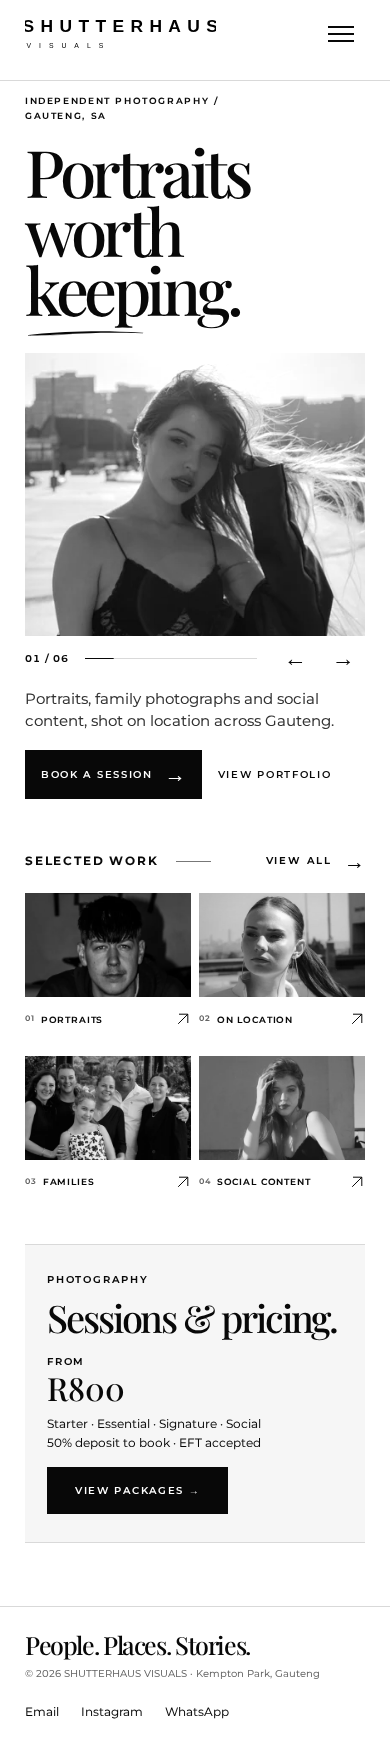
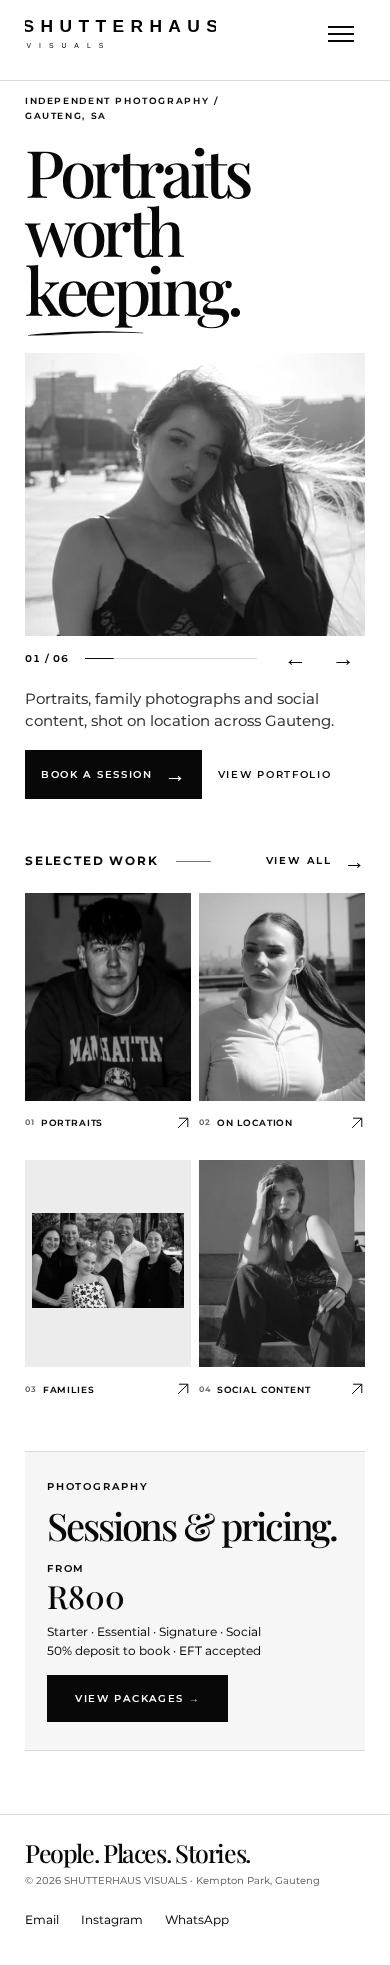
Present Selected Work in 4:5 portrait frames on Home and Portfolio

diff --git a/index.html b/index.html
@@ -201,8 +201,8 @@
       <div class="hstrip__grid" style="--showcase-cols:4"><div class="hstrip__entry">
       <button type="button" class="photo-trigger hstrip__item" data-cover="portraits" style="--focal:50% 2.5%" role="button" aria-label="Enlarge A seated man in a Manhattan sweatshirt looks into the camera, hands clasped">
         <span class="cell">
-      <picture><source type="image/webp" srcset="gallery/5-img-0086-400w.webp 400w, gallery/5-img-0086-560w.webp 560w, gallery/5-img-0086-800w.webp 800w, gallery/5-img-0086-1200w.webp 1200w, gallery/5-img-0086-1600w.webp 1600w" sizes="(max-width: 759px) 46vw, 24vw" />
-        <source type="image/jpeg" srcset="gallery/5-img-0086-400w.jpg 400w, gallery/5-img-0086-560w.jpg 560w, gallery/5-img-0086-800w.jpg 800w, gallery/5-img-0086-1200w.jpg 1200w, gallery/5-img-0086-1600w.jpg 1600w" sizes="(max-width: 759px) 46vw, 24vw" />
+      <picture><source type="image/webp" srcset="gallery/5-img-0086-400w.webp 400w, gallery/5-img-0086-560w.webp 560w, gallery/5-img-0086-800w.webp 800w, gallery/5-img-0086-1200w.webp 1200w, gallery/5-img-0086-1600w.webp 1600w" sizes="(max-width: 759px) 46vw, (max-width: 1536px) 24vw, 350px" />
+        <source type="image/jpeg" srcset="gallery/5-img-0086-400w.jpg 400w, gallery/5-img-0086-560w.jpg 560w, gallery/5-img-0086-800w.jpg 800w, gallery/5-img-0086-1200w.jpg 1200w, gallery/5-img-0086-1600w.jpg 1600w" sizes="(max-width: 759px) 46vw, (max-width: 1536px) 24vw, 350px" />
         <img src="gallery/5-img-0086-400w.jpg" alt="A seated man in a Manhattan sweatshirt looks into the camera, hands clasped"
              loading="lazy" decoding="async" style="aspect-ratio:1600/2400"
              data-full="gallery/5-img-0086.jpg" data-alt="A seated man in a Manhattan sweatshirt looks into the camera, hands clasped"
@@ -212,10 +212,10 @@
     </span></button>
       <a class="work-caption" href="./portfolio.html?collection=portraits#edit-portraits"><small aria-hidden="true">01</small>Portraits<svg width="16" height="16" viewBox="0 0 20 20" fill="none" aria-hidden="true"><path d="M4 16 16 4M5 4h11v11" stroke="currentColor" stroke-width="1.25"/></svg></a>
     </div><div class="hstrip__entry">
-      <button type="button" class="photo-trigger hstrip__item" data-cover="on-location" style="--focal:50% 29%" role="button" aria-label="Enlarge Portrait of a woman in a white top outdoors, hair pulled back, in bright light">
+      <button type="button" class="photo-trigger hstrip__item" data-cover="on-location" style="--focal:50% 64%" role="button" aria-label="Enlarge Portrait of a woman in a white top outdoors, hair pulled back, in bright light">
         <span class="cell">
-      <picture><source type="image/webp" srcset="gallery/2-20240718114526-img-0124-400w.webp 400w, gallery/2-20240718114526-img-0124-560w.webp 560w, gallery/2-20240718114526-img-0124-800w.webp 800w, gallery/2-20240718114526-img-0124-1200w.webp 1200w, gallery/2-20240718114526-img-0124-1600w.webp 1600w" sizes="(max-width: 759px) 46vw, 24vw" />
-        <source type="image/jpeg" srcset="gallery/2-20240718114526-img-0124-400w.jpg 400w, gallery/2-20240718114526-img-0124-560w.jpg 560w, gallery/2-20240718114526-img-0124-800w.jpg 800w, gallery/2-20240718114526-img-0124-1200w.jpg 1200w, gallery/2-20240718114526-img-0124-1600w.jpg 1600w" sizes="(max-width: 759px) 46vw, 24vw" />
+      <picture><source type="image/webp" srcset="gallery/2-20240718114526-img-0124-400w.webp 400w, gallery/2-20240718114526-img-0124-560w.webp 560w, gallery/2-20240718114526-img-0124-800w.webp 800w, gallery/2-20240718114526-img-0124-1200w.webp 1200w, gallery/2-20240718114526-img-0124-1600w.webp 1600w" sizes="(max-width: 759px) 46vw, (max-width: 1536px) 24vw, 350px" />
+        <source type="image/jpeg" srcset="gallery/2-20240718114526-img-0124-400w.jpg 400w, gallery/2-20240718114526-img-0124-560w.jpg 560w, gallery/2-20240718114526-img-0124-800w.jpg 800w, gallery/2-20240718114526-img-0124-1200w.jpg 1200w, gallery/2-20240718114526-img-0124-1600w.jpg 1600w" sizes="(max-width: 759px) 46vw, (max-width: 1536px) 24vw, 350px" />
         <img src="gallery/2-20240718114526-img-0124-400w.jpg" alt="Portrait of a woman in a white top outdoors, hair pulled back, in bright light"
              loading="lazy" decoding="async" style="aspect-ratio:1600/2400"
              data-full="gallery/2-20240718114526-img-0124.jpg" data-alt="Portrait of a woman in a white top outdoors, hair pulled back, in bright light"
@@ -225,10 +225,10 @@
     </span></button>
       <a class="work-caption" href="./portfolio.html?collection=on-location#edit-on-location"><small aria-hidden="true">02</small>On location<svg width="16" height="16" viewBox="0 0 20 20" fill="none" aria-hidden="true"><path d="M4 16 16 4M5 4h11v11" stroke="currentColor" stroke-width="1.25"/></svg></a>
     </div><div class="hstrip__entry">
-      <button type="button" class="photo-trigger hstrip__item" data-cover="families" style="--focal:50% 0%" role="button" aria-label="Enlarge Family portrait of six people outdoors, laughing together on a path">
+      <button type="button" class="photo-trigger hstrip__item" data-cover="families" style="--focal:50% 0%" data-mounted role="button" aria-label="Enlarge Family portrait of six people outdoors, laughing together on a path">
         <span class="cell">
-      <picture><source type="image/webp" srcset="gallery/54-img-0164-400w.webp 400w, gallery/54-img-0164-560w.webp 560w, gallery/54-img-0164-800w.webp 800w, gallery/54-img-0164-1200w.webp 1200w, gallery/54-img-0164-1600w.webp 1600w" sizes="(max-width: 759px) 46vw, 24vw" />
-        <source type="image/jpeg" srcset="gallery/54-img-0164-400w.jpg 400w, gallery/54-img-0164-560w.jpg 560w, gallery/54-img-0164-800w.jpg 800w, gallery/54-img-0164-1200w.jpg 1200w, gallery/54-img-0164-1600w.jpg 1600w" sizes="(max-width: 759px) 46vw, 24vw" />
+      <picture><source type="image/webp" srcset="gallery/54-img-0164-400w.webp 400w, gallery/54-img-0164-560w.webp 560w, gallery/54-img-0164-800w.webp 800w, gallery/54-img-0164-1200w.webp 1200w, gallery/54-img-0164-1600w.webp 1600w" sizes="(max-width: 759px) 46vw, (max-width: 1536px) 24vw, 350px" />
+        <source type="image/jpeg" srcset="gallery/54-img-0164-400w.jpg 400w, gallery/54-img-0164-560w.jpg 560w, gallery/54-img-0164-800w.jpg 800w, gallery/54-img-0164-1200w.jpg 1200w, gallery/54-img-0164-1600w.jpg 1600w" sizes="(max-width: 759px) 46vw, (max-width: 1536px) 24vw, 350px" />
         <img src="gallery/54-img-0164-400w.jpg" alt="Family portrait of six people outdoors, laughing together on a path"
              loading="lazy" decoding="async" style="aspect-ratio:2400/1499"
              data-full="gallery/54-img-0164.jpg" data-alt="Family portrait of six people outdoors, laughing together on a path"
@@ -240,8 +240,8 @@
     </div><div class="hstrip__entry">
       <button type="button" class="photo-trigger hstrip__item" data-cover="social" style="--focal:50% 0%" role="button" aria-label="Enlarge A woman in black seated on sunlit outdoor steps with her hand in her hair">
         <span class="cell">
-      <picture><source type="image/webp" srcset="gallery/20-img-0202-400w.webp 400w, gallery/20-img-0202-560w.webp 560w, gallery/20-img-0202-800w.webp 800w, gallery/20-img-0202-1200w.webp 1200w" sizes="(max-width: 759px) 46vw, 24vw" />
-        <source type="image/jpeg" srcset="gallery/20-img-0202-400w.jpg 400w, gallery/20-img-0202-560w.jpg 560w, gallery/20-img-0202-800w.jpg 800w, gallery/20-img-0202-1200w.jpg 1200w" sizes="(max-width: 759px) 46vw, 24vw" />
+      <picture><source type="image/webp" srcset="gallery/20-img-0202-400w.webp 400w, gallery/20-img-0202-560w.webp 560w, gallery/20-img-0202-800w.webp 800w, gallery/20-img-0202-1200w.webp 1200w" sizes="(max-width: 759px) 46vw, (max-width: 1536px) 24vw, 350px" />
+        <source type="image/jpeg" srcset="gallery/20-img-0202-400w.jpg 400w, gallery/20-img-0202-560w.jpg 560w, gallery/20-img-0202-800w.jpg 800w, gallery/20-img-0202-1200w.jpg 1200w" sizes="(max-width: 759px) 46vw, (max-width: 1536px) 24vw, 350px" />
         <img src="gallery/20-img-0202-400w.jpg" alt="A woman in black seated on sunlit outdoor steps with her hand in her hair"
              loading="lazy" decoding="async" style="aspect-ratio:1350/2400"
              data-full="gallery/20-img-0202.jpg" data-alt="A woman in black seated on sunlit outdoor steps with her hand in her hair"

diff --git a/portfolio.html b/portfolio.html
@@ -194,17 +194,17 @@
       <p class="phead__p">Portraits, families and creative work, photographed on location across Gauteng.</p>
     </header>
     <nav class="work-index" aria-label="Browse work by collection"><a class="work-tile" data-collection="portraits" href="./portfolio.html?collection=portraits#edit-portraits" style="--focal:50% 2.5%">
-      <figure class="work-tile__photo"><picture><source type="image/webp" srcset="gallery/5-img-0086-400w.webp 400w, gallery/5-img-0086-560w.webp 560w, gallery/5-img-0086-800w.webp 800w, gallery/5-img-0086-1200w.webp 1200w, gallery/5-img-0086-1600w.webp 1600w" sizes="(max-width: 759px) 92vw, 24vw" />
-        <source type="image/jpeg" srcset="gallery/5-img-0086-400w.jpg 400w, gallery/5-img-0086-560w.jpg 560w, gallery/5-img-0086-800w.jpg 800w, gallery/5-img-0086-1200w.jpg 1200w, gallery/5-img-0086-1600w.jpg 1600w" sizes="(max-width: 759px) 92vw, 24vw" /><img src="gallery/5-img-0086-1600w.webp" alt="A seated man in a Manhattan sweatshirt looks into the camera, hands clasped" width="1600" height="2400" loading="eager" decoding="async" /></picture></figure>
-      <span class="image-label"><small>01</small>Portraits</span></a><a class="work-tile" data-collection="on-location" href="./portfolio.html?collection=on-location#edit-on-location" style="--focal:50% 29%">
-      <figure class="work-tile__photo"><picture><source type="image/webp" srcset="gallery/2-20240718114526-img-0124-400w.webp 400w, gallery/2-20240718114526-img-0124-560w.webp 560w, gallery/2-20240718114526-img-0124-800w.webp 800w, gallery/2-20240718114526-img-0124-1200w.webp 1200w, gallery/2-20240718114526-img-0124-1600w.webp 1600w" sizes="(max-width: 759px) 92vw, 24vw" />
-        <source type="image/jpeg" srcset="gallery/2-20240718114526-img-0124-400w.jpg 400w, gallery/2-20240718114526-img-0124-560w.jpg 560w, gallery/2-20240718114526-img-0124-800w.jpg 800w, gallery/2-20240718114526-img-0124-1200w.jpg 1200w, gallery/2-20240718114526-img-0124-1600w.jpg 1600w" sizes="(max-width: 759px) 92vw, 24vw" /><img src="gallery/2-20240718114526-img-0124-1600w.webp" alt="Portrait of a woman in a white top outdoors, hair pulled back, in bright light" width="1600" height="2400" loading="lazy" decoding="async" /></picture></figure>
-      <span class="image-label"><small>02</small>On location</span></a><a class="work-tile" data-collection="families" href="./portfolio.html?collection=families#edit-families" style="--focal:50% 0%">
-      <figure class="work-tile__photo"><picture><source type="image/webp" srcset="gallery/54-img-0164-400w.webp 400w, gallery/54-img-0164-560w.webp 560w, gallery/54-img-0164-800w.webp 800w, gallery/54-img-0164-1200w.webp 1200w, gallery/54-img-0164-1600w.webp 1600w" sizes="(max-width: 759px) 92vw, 24vw" />
-        <source type="image/jpeg" srcset="gallery/54-img-0164-400w.jpg 400w, gallery/54-img-0164-560w.jpg 560w, gallery/54-img-0164-800w.jpg 800w, gallery/54-img-0164-1200w.jpg 1200w, gallery/54-img-0164-1600w.jpg 1600w" sizes="(max-width: 759px) 92vw, 24vw" /><img src="gallery/54-img-0164-1600w.webp" alt="Family portrait of six people outdoors, laughing together on a path" width="2400" height="1499" loading="lazy" decoding="async" /></picture></figure>
+      <figure class="work-tile__photo"><picture><source type="image/webp" srcset="gallery/5-img-0086-400w.webp 400w, gallery/5-img-0086-560w.webp 560w, gallery/5-img-0086-800w.webp 800w, gallery/5-img-0086-1200w.webp 1200w, gallery/5-img-0086-1600w.webp 1600w" sizes="(max-width: 759px) 46vw, (max-width: 1536px) 24vw, 350px" />
+        <source type="image/jpeg" srcset="gallery/5-img-0086-400w.jpg 400w, gallery/5-img-0086-560w.jpg 560w, gallery/5-img-0086-800w.jpg 800w, gallery/5-img-0086-1200w.jpg 1200w, gallery/5-img-0086-1600w.jpg 1600w" sizes="(max-width: 759px) 46vw, (max-width: 1536px) 24vw, 350px" /><img src="gallery/5-img-0086-1600w.webp" alt="A seated man in a Manhattan sweatshirt looks into the camera, hands clasped" width="1600" height="2400" loading="eager" decoding="async" /></picture></figure>
+      <span class="image-label"><small>01</small>Portraits</span></a><a class="work-tile" data-collection="on-location" href="./portfolio.html?collection=on-location#edit-on-location" style="--focal:50% 64%">
+      <figure class="work-tile__photo"><picture><source type="image/webp" srcset="gallery/2-20240718114526-img-0124-400w.webp 400w, gallery/2-20240718114526-img-0124-560w.webp 560w, gallery/2-20240718114526-img-0124-800w.webp 800w, gallery/2-20240718114526-img-0124-1200w.webp 1200w, gallery/2-20240718114526-img-0124-1600w.webp 1600w" sizes="(max-width: 759px) 46vw, (max-width: 1536px) 24vw, 350px" />
+        <source type="image/jpeg" srcset="gallery/2-20240718114526-img-0124-400w.jpg 400w, gallery/2-20240718114526-img-0124-560w.jpg 560w, gallery/2-20240718114526-img-0124-800w.jpg 800w, gallery/2-20240718114526-img-0124-1200w.jpg 1200w, gallery/2-20240718114526-img-0124-1600w.jpg 1600w" sizes="(max-width: 759px) 46vw, (max-width: 1536px) 24vw, 350px" /><img src="gallery/2-20240718114526-img-0124-1600w.webp" alt="Portrait of a woman in a white top outdoors, hair pulled back, in bright light" width="1600" height="2400" loading="lazy" decoding="async" /></picture></figure>
+      <span class="image-label"><small>02</small>On location</span></a><a class="work-tile" data-collection="families" href="./portfolio.html?collection=families#edit-families" style="--focal:50% 0%" data-mounted>
+      <figure class="work-tile__photo"><picture><source type="image/webp" srcset="gallery/54-img-0164-400w.webp 400w, gallery/54-img-0164-560w.webp 560w, gallery/54-img-0164-800w.webp 800w, gallery/54-img-0164-1200w.webp 1200w, gallery/54-img-0164-1600w.webp 1600w" sizes="(max-width: 759px) 46vw, (max-width: 1536px) 24vw, 350px" />
+        <source type="image/jpeg" srcset="gallery/54-img-0164-400w.jpg 400w, gallery/54-img-0164-560w.jpg 560w, gallery/54-img-0164-800w.jpg 800w, gallery/54-img-0164-1200w.jpg 1200w, gallery/54-img-0164-1600w.jpg 1600w" sizes="(max-width: 759px) 46vw, (max-width: 1536px) 24vw, 350px" /><img src="gallery/54-img-0164-1600w.webp" alt="Family portrait of six people outdoors, laughing together on a path" width="2400" height="1499" loading="lazy" decoding="async" /></picture></figure>
       <span class="image-label"><small>03</small>Families</span></a><a class="work-tile" data-collection="social" href="./portfolio.html?collection=social#edit-social" style="--focal:50% 0%">
-      <figure class="work-tile__photo"><picture><source type="image/webp" srcset="gallery/20-img-0202-400w.webp 400w, gallery/20-img-0202-560w.webp 560w, gallery/20-img-0202-800w.webp 800w, gallery/20-img-0202-1200w.webp 1200w" sizes="(max-width: 759px) 92vw, 24vw" />
-        <source type="image/jpeg" srcset="gallery/20-img-0202-400w.jpg 400w, gallery/20-img-0202-560w.jpg 560w, gallery/20-img-0202-800w.jpg 800w, gallery/20-img-0202-1200w.jpg 1200w" sizes="(max-width: 759px) 92vw, 24vw" /><img src="gallery/20-img-0202-1200w.webp" alt="A woman in black seated on sunlit outdoor steps with her hand in her hair" width="1350" height="2400" loading="lazy" decoding="async" /></picture></figure>
+      <figure class="work-tile__photo"><picture><source type="image/webp" srcset="gallery/20-img-0202-400w.webp 400w, gallery/20-img-0202-560w.webp 560w, gallery/20-img-0202-800w.webp 800w, gallery/20-img-0202-1200w.webp 1200w" sizes="(max-width: 759px) 46vw, (max-width: 1536px) 24vw, 350px" />
+        <source type="image/jpeg" srcset="gallery/20-img-0202-400w.jpg 400w, gallery/20-img-0202-560w.jpg 560w, gallery/20-img-0202-800w.jpg 800w, gallery/20-img-0202-1200w.jpg 1200w" sizes="(max-width: 759px) 46vw, (max-width: 1536px) 24vw, 350px" /><img src="gallery/20-img-0202-1200w.webp" alt="A woman in black seated on sunlit outdoor steps with her hand in her hair" width="1350" height="2400" loading="lazy" decoding="async" /></picture></figure>
       <span class="image-label"><small>04</small>Social content</span></a></nav>
     <noscript>
     <section class="native-edit" id="edit-portraits">

diff --git a/src/pages.ts b/src/pages.ts
@@ -1,7 +1,7 @@
 import { formatPrice } from "./pricing";
 import { escapeHtml } from "./layout";
 import { SITE } from "./config";
-import { WORK_EDITS, belongsToEdit, collectionLink, editCover, frameLabel } from "./work-collections";
+import { WORK_EDITS, belongsToEdit, collectionLink, editCover, frameLabel, type WorkEdit } from "./work-collections";
 import type { Photo } from "./types";
 import { PHOTO_ROWS, COMMITTED_ROWS } from "./rows";
 
@@ -465,6 +465,17 @@ export function editorialFigure(photo: Photo | undefined, className: string, eag
   return `<figure class="${className}"><picture>${pictureFor(photo.url, sizes, photo.width)}<img src="${escapeHtml(bestDerivative(photo.url, "webp", photo.width))}" alt="${escapeHtml(photo.alt || photo.filename || "")}" width="${photo.width || 1200}" height="${photo.height || 1600}" loading="${eager ? "eager" : "lazy"}" decoding="async" /></picture></figure>`;
 }
 
+function selectedCoverSizes(columns: number): string {
+  return `(max-width: 759px) 46vw, (max-width: 1536px) ${Math.ceil(96 / columns)}vw, ${Math.ceil(1400 / columns)}px`;
+}
+
+function selectedCoverAttributes(photo: Photo, edit?: WorkEdit): string {
+  const pinned = WORK_EDITS.find(choice => choice.cover && choice.cover === photo.filename);
+  const focal = pinned && "portraitPosition" in pinned ? pinned.portraitPosition : pinned?.position ?? "50% 25%";
+  const mountGroup = edit?.key === "families" && (!photo.width || !photo.height || photo.width > photo.height);
+  return `style="--focal:${focal}"${mountGroup ? " data-mounted" : ""}`;
+}
+
 export function portfolioPage(photos: Photo[], expanded = false, collection: string | null = null): string {
   if (!photos.length) return emptyGallery();
 
@@ -564,8 +575,8 @@ export function portfolioPage(photos: Photo[], expanded = false, collection: str
   const covers = WORK_EDITS.map((edit, i) => {
     const p = editCover(edit, ordered, photos);
     if (!p) return "";
-    return `<a class="work-tile" data-collection="${edit.key}" href="${collectionLink(edit)}" style="--focal:${edit.position}">
-      ${editorialFigure(p, "work-tile__photo", i === 0, "(max-width: 759px) 92vw, 24vw")}
+    return `<a class="work-tile" data-collection="${edit.key}" href="${collectionLink(edit)}" ${selectedCoverAttributes(p, edit)}>
+      ${editorialFigure(p, "work-tile__photo", i === 0, selectedCoverSizes(WORK_EDITS.length))}
       <span class="image-label"><small>${String(i + 1).padStart(2, "0")}</small>${edit.label}</span></a>`;
   }).join("");
   // Static hosting cannot filter a query on the server. Fragment targets expose
@@ -685,6 +696,8 @@ export function homePage(photos: Photo[], _cols: number): string {
   const pinnedStrip = SITE.homeStrip.map(name => byName.get(name)).filter((photo): photo is Photo => !!photo);
   const strip = (pinnedStrip.length ? pinnedStrip : visible.filter(photo => photo.id !== hero?.id))
     .slice(0, SITE.homeGalleryCount);
+  const stripColumns = Math.max(1, Math.min(4, strip.length));
+  const stripSizes = selectedCoverSizes(stripColumns);
   const byId = new Map(visible.map(photo => [photo.id, photo]));
   const published = PHOTO_ROWS.flat().map(id => byId.get(id));
   const candidates = [hero, ...strip, published.find(photo => photo?.filename === "18-img-0043.jpg"), ...published];
@@ -714,11 +727,10 @@ export function homePage(photos: Photo[], _cols: number): string {
   const selectedWork = strip.map((photo, index) => {
     const label = frameLabel(photo);
     const edit = WORK_EDITS.find(choice => choice.label === label);
-    const focal = WORK_EDITS.find(choice => choice.cover === photo.filename)?.position ?? "50% 25%";
     const title = `<small aria-hidden="true">${String(index + 1).padStart(2, "0")}</small>${escapeHtml(label)}`;
     return `<div class="hstrip__entry">
-      <button type="button" class="photo-trigger hstrip__item" data-cover="${edit?.key ?? ""}" style="--focal:${focal}" role="button" aria-label="Enlarge ${escapeHtml(photo.alt || photo.filename || "photograph")}">
-        ${figure(photo, -1, "(max-width: 759px) 46vw, 24vw")}</button>
+      <button type="button" class="photo-trigger hstrip__item" data-cover="${edit?.key ?? ""}" ${selectedCoverAttributes(photo, edit)} role="button" aria-label="Enlarge ${escapeHtml(photo.alt || photo.filename || "photograph")}">
+        ${figure(photo, -1, stripSizes)}</button>
       ${edit ? `<a class="work-caption" href="${collectionLink(edit)}">${title}<svg width="16" height="16" viewBox="0 0 20 20" fill="none" aria-hidden="true"><path d="M4 16 16 4M5 4h11v11" stroke="currentColor" stroke-width="1.25"/></svg></a>` : `<span class="work-caption">${title}</span>`}
     </div>`;
   }).join("");
@@ -733,7 +745,7 @@ export function homePage(photos: Photo[], _cols: number): string {
     </div>
     ${strip.length ? `<section class="hstrip" aria-label="Selected work">
       <div class="hstrip__head"><h2>Selected work</h2><a class="all-work" href="./portfolio.html">View all <span aria-hidden="true">→</span></a></div>
-      <div class="hstrip__grid" style="--showcase-cols:${Math.min(4, strip.length)}">${selectedWork}</div>
+      <div class="hstrip__grid" style="--showcase-cols:${stripColumns}">${selectedWork}</div>
     </section>` : ""}
     ${homeBand()}
   </section>`;

diff --git a/src/public.css b/src/public.css
@@ -101,7 +101,7 @@ a:focus-visible, button:focus-visible, input:focus-visible, textarea:focus-visib
 .work-caption { display: flex; align-items: center; gap: 10px; min-height: 44px; padding-block: 7px; font: 650 10px/1.45 var(--font-body); color: var(--ink); letter-spacing: .14em; text-transform: uppercase; }
 .work-caption small { color: var(--grey); font-size: 9px; }
 .work-caption svg { flex: none; margin-left: auto; }
-.hstrip__item, .work-tile { position: relative; min-width: 0; overflow: hidden; aspect-ratio: 1.6; background: var(--wash); }
+.hstrip__item, .work-tile { position: relative; min-width: 0; overflow: hidden; aspect-ratio: 4 / 5; background: var(--wash); }
 .cell { display: block; overflow: hidden; background: var(--wash); }
 .cell picture, .cell img { display: block; width: 100%; height: auto; }
 .cell img { object-fit: contain; opacity: 1; filter: grayscale(1); transition: opacity .18s ease; }
@@ -109,8 +109,10 @@ a:focus-visible, button:focus-visible, input:focus-visible, textarea:focus-visib
 .hstrip__item .cell, .hstrip__item picture { filter: none; transition: none; }
 .hstrip__item img, .work-tile img { object-fit: cover; object-position: var(--focal, 50% 28%); }
 .work-tile img { filter: grayscale(1); }
-.hstrip__item[data-cover="families"] img { object-fit: contain; }
+:is(.hstrip__item, .work-tile)[data-mounted] img { object-fit: contain; object-position: 50% 47%; padding-inline: 4%; background: #ececec; }
 .work-tile::after { content: ""; position: absolute; inset: 46% 0 0; background: linear-gradient(transparent, rgb(0 0 0 / .72)); pointer-events: none; }
+.work-tile[data-mounted]::after { content: none; }
+.work-tile[data-mounted] .image-label { color: var(--ink); }
 .image-label { position: absolute; z-index: 1; bottom: clamp(12px,1.5vw,24px); left: clamp(13px,1.6vw,26px); display: grid; gap: 2px; color: white; font-size: 10px; pointer-events: none; }
 .image-label small { font-size: inherit; }
 .work-tile:hover .image-label { text-decoration: underline; text-underline-offset: 4px; }
@@ -292,16 +294,15 @@ a:focus-visible, button:focus-visible, input:focus-visible, textarea:focus-visib
   .hero__actions .cta--line::after { display: none; }
   .hstrip { padding-top: 40px; }
   .hstrip__head { gap: 9px; }
-  .hstrip__grid { grid-template-columns: repeat(2, minmax(0,1fr)); gap: 15px 8px; }
-  .hstrip__item { aspect-ratio: 1.6; }
+  .hstrip__grid, .work-index { grid-template-columns: repeat(2, minmax(0,1fr)); }
+  .hstrip__grid { gap: 15px 8px; }
   .work-caption { gap: 6px; min-height: 44px; font-size: clamp(8px, 2.3vw, 10px); letter-spacing: .095em; }
   .work-caption small { font-size: 8px; }
   .work-intro, .shead { display: block; padding: 16px 0 24px; }
   .eyebrow--rule::after { flex: 1; }
   .page .work-intro h1, .page .shead h1, .page .about__h, .page .contact__h { margin: 18px 0 0; font-size: clamp(53px, 14.7vw, 84px); line-height: .94; }
   .work-intro .phead__p { display: none; }
-  .work-index { grid-template-columns: 1fr; gap: 8px; margin-bottom: 28px; }
-  .work-tile { aspect-ratio: 1.65; }
+  .work-index { gap: 8px; margin-bottom: 28px; }
   .image-label { bottom: 10px; left: 10px; }
   .edit-links { gap: 6px; }
   .edit-links a { padding: 8px; letter-spacing: .1em; }

diff --git a/tests/public.spec.ts b/tests/public.spec.ts
@@ -151,9 +151,12 @@ test('collection covers preserve the pictured faces on phones and wide screens',
     const rect = image.getBoundingClientRect();
     const css = getComputedStyle(image);
     const [x, y] = css.objectPosition.split(' ').map(percent => parseFloat(percent)/100);
-    const scale = (css.objectFit === 'contain' ? Math.min : Math.max)(rect.width/image.naturalWidth, rect.height/image.naturalHeight);
+    const padLeft = parseFloat(css.paddingLeft), padTop = parseFloat(css.paddingTop);
+    const width = rect.width - padLeft - parseFloat(css.paddingRight);
+    const height = rect.height - padTop - parseFloat(css.paddingBottom);
+    const scale = (css.objectFit === 'contain' ? Math.min : Math.max)(width/image.naturalWidth, height/image.naturalHeight);
     const w = image.naturalWidth*scale, h = image.naturalHeight*scale;
-    const left = (rect.width-w)*x, top = (rect.height-h)*y;
+    const left = padLeft+(width-w)*x, top = padTop+(height-h)*y;
     const [x1, y1, x2, y2] = bounds[id as keyof typeof bounds];
     return {id,inside: left+w*x1 >= -1 && top+h*y1 >= -1 && left+w*x2 <= rect.width+1 && top+h*y2 <= rect.height+1};
    }), bounds);

diff --git a/tests/safari-layout.spec.ts b/tests/safari-layout.spec.ts
@@ -105,6 +105,14 @@ for (const viewport of viewports) {
           await image.evaluate((image:HTMLImageElement)=>image.decode());
         }
         await frames(`${route} intro`,'.work-tile__photo,.about__fig',false);
+        if (!baseline && (route === 'home' || route === 'portfolio')) {
+          const ratios = await page.locator('.hstrip__item, .work-tile').evaluateAll(tiles => tiles.map(tile => {
+            const {width, height} = tile.getBoundingClientRect();
+            return width / height;
+          }));
+          expect(ratios.length).toBeGreaterThan(0);
+          for (const ratio of ratios) expect(ratio, `${route} Selected Work frame`).toBeCloseTo(4 / 5, 2);
+        }
         if (route==='portfolio') {
           for (const index of [0,4,9]) {
             const cell=page.locator('.pf-cell').nth(index);

diff --git a/src/work-collections.ts b/src/work-collections.ts
@@ -3,7 +3,7 @@ import type { Photo } from "./types";
 
 export const WORK_EDITS = [
   { key: "portraits", label: "Portraits", cover: "5-img-0086.jpg", position: "50% 2.5%" },
-  { key: "on-location", label: "On location", cover: "2-20240718114526-img-0124.jpg", position: "50% 29%" },
+  { key: "on-location", label: "On location", cover: "2-20240718114526-img-0124.jpg", position: "50% 29%", portraitPosition: "50% 64%" },
   { key: "families", label: "Families", cover: SITE.pricing.tiers.find(t => t.name === "Signature")?.photo, position: "50% 0%" },
   { key: "social", label: "Social content", cover: SITE.pricing.tiers.find(t => t.name === "Social")?.photo, position: "50% 0%" },
 ] as const;

diff --git a/src/DESIGN.md b/src/DESIGN.md
@@ -6,7 +6,9 @@ Use the desktop Home, mobile Home / Work / Contact and brand boards supplied on 
 
 Desktop leads with a three-line heading at left and a 1.1:1 photograph at right. The six-frame carousel places its count, progress line and arrows below the image on all screens. Its selected frame survives a gallery refresh. The primary cover is the windblown outdoor portrait. Its focal point preserves the crown of the head on both screen shapes. Landscape group slides show the complete frame. Each selected photograph enlarges and its separate caption opens the collection. Phones show every selection in a two-column grid.
 
-Work shows four collections above the published wall. Portraits, On location, Families and Social content use Alwin’s photography. The On location collection draws from individually reviewed frames of the published wall and its cover. Family and Social can feature the published session photographs when the wall lacks a matching tag. Family covers preserve the group at both wide and narrow aspect ratios. An edit with one photograph displays that one frame. The full gallery retains the curated order, native photo controls and mobile disclosure.
+Selected Work uses the same 4:5 frames on Home and Work. Four covers fit across the desktop grid, and two fit across on phones. Each pinned portrait has a focal point for this crop. A wide family group is centered on a pale grey mount so everyone fits. Work keeps its collection labels on the covers. Home keeps the captions underneath.
+
+Work shows four collections above the published wall. Portraits, On location, Families and Social content use Alwin’s photography. The On location collection draws from individually reviewed frames of the published wall and its cover. Family and Social can feature the published session photographs when the wall lacks a matching tag. An edit with one photograph displays that one frame. The full gallery retains the original photographs’ proportions, curated order, native photo controls and mobile disclosure.
 
 ## Motion
 
@@ -20,4 +22,4 @@ Four desktop package cards share aligned 3:2 image frames and price rows. The ph
 
 ## Review evidence
 
-`SCREENSHOT.png` shows the built Home viewport at 1440 × 900. `SCREENSHOT-MOBILE.png` shows Home at 390 × 844, full page. `SCREENSHOT-SESSIONS.png` shows the 1440px package comparison, and `SCREENSHOT-SESSIONS-MOBILE.png` shows the full phone Sessions page. All four are genuine browser captures of the 26 November 2026 polish pass. Browser checks exercise all five public pages, drawer focus, frame bounds, package handoff and collection navigation.
+`SCREENSHOT.png` and `SCREENSHOT-MOBILE.png` show the full Home page captured on 27 November 2026 at 1440 × 900 and 390 × 844 viewports. `SCREENSHOT-SESSIONS.png` and `SCREENSHOT-SESSIONS-MOBILE.png` show the desktop package comparison and phone Sessions page captured on 26 November. Browser checks exercise all five public pages, drawer focus, frame bounds, package handoff and collection navigation.

diff --git a/DESIGN.md b/DESIGN.md
@@ -2,6 +2,6 @@
 
 The 25 November 2026 desktop, mobile and brand boards guide the five public pages. Playfair Display headings and Montserrat text sit on a white page with fine rules, square buttons and a single tapered ink underline beneath “keeping.” The desktop Home pairs “Portraits worth keeping.” with a wider portrait and six manually controlled frames. The frame counter, progress line and arrows sit under the picture. On phones the headline precedes the photograph, arrows, introduction and booking button.
 
-Every photograph comes from the Shutterhaus collection. The Home cover is Alwin’s windblown outdoor portrait. Four selected photographs have linked captions, with all four visible in a two-column phone grid. Work opens with Portraits, On location, Families and Social content. Alwin shoots on location. Visitors can still enquire about couples photography.
+Every photograph comes from the Shutterhaus collection. The Home cover is Alwin’s windblown outdoor portrait. Home and Work present their four selections in 4:5 portrait frames, two across on phones and four across on desktop. Three portraits fill the frames. The landscape family photograph sits on a light grey mount so all six people are visible. Home’s captions and Work’s covers link to Portraits, On location, Families and Social content. Alwin shoots on location. Visitors can still enquire about couples photography.
 
-The Home and Sessions screenshots in this directory and in `src/` were captured from the built website on 26 November 2026. [SCREENSHOT.png](SCREENSHOT.png) shows Home at a 1440 × 900 viewport. The phone images show full pages at 390 × 844. The desktop Sessions capture shows the package comparison at 1440px. See [the source design notes](src/DESIGN.md) for responsive behavior.
+The Home screenshots in this directory and in `src/` are full-page captures from 27 November 2026. [Desktop Home](SCREENSHOT.png) uses a 1440 × 900 viewport and [mobile Home](SCREENSHOT-MOBILE.png) uses 390 × 844. The 26 November Sessions captures show the package comparison and phone picker. See [the source design notes](src/DESIGN.md) for responsive behavior.
